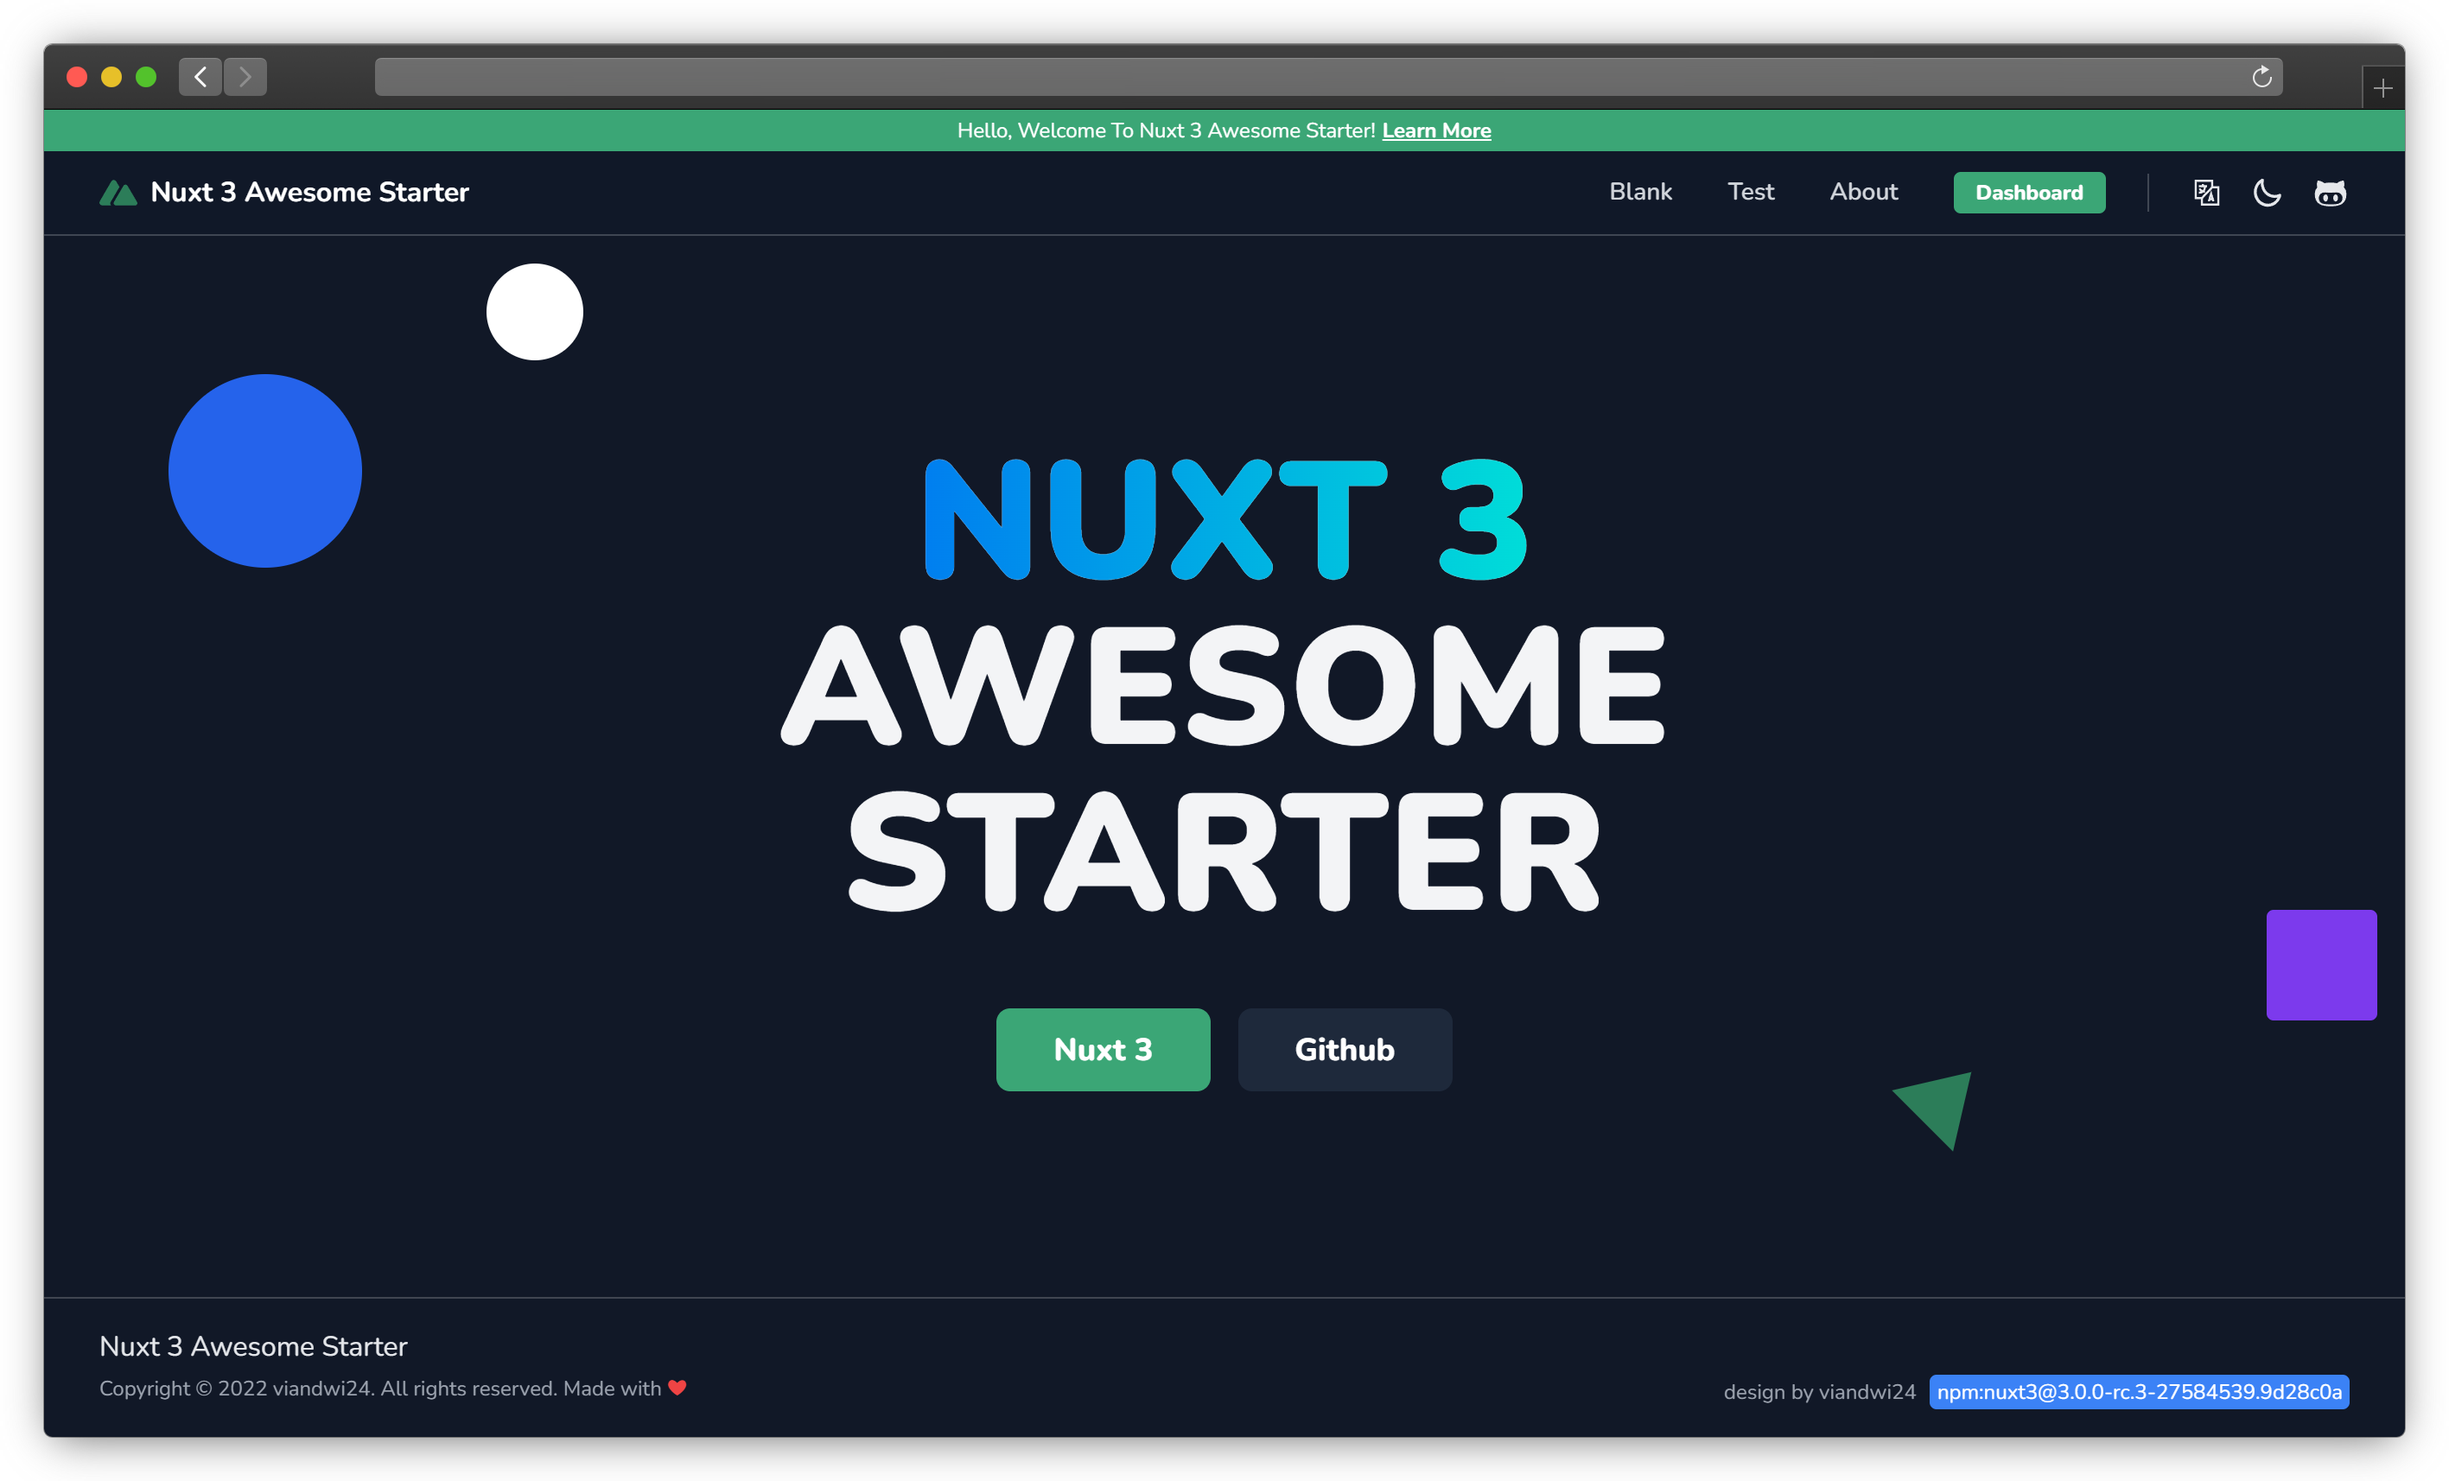
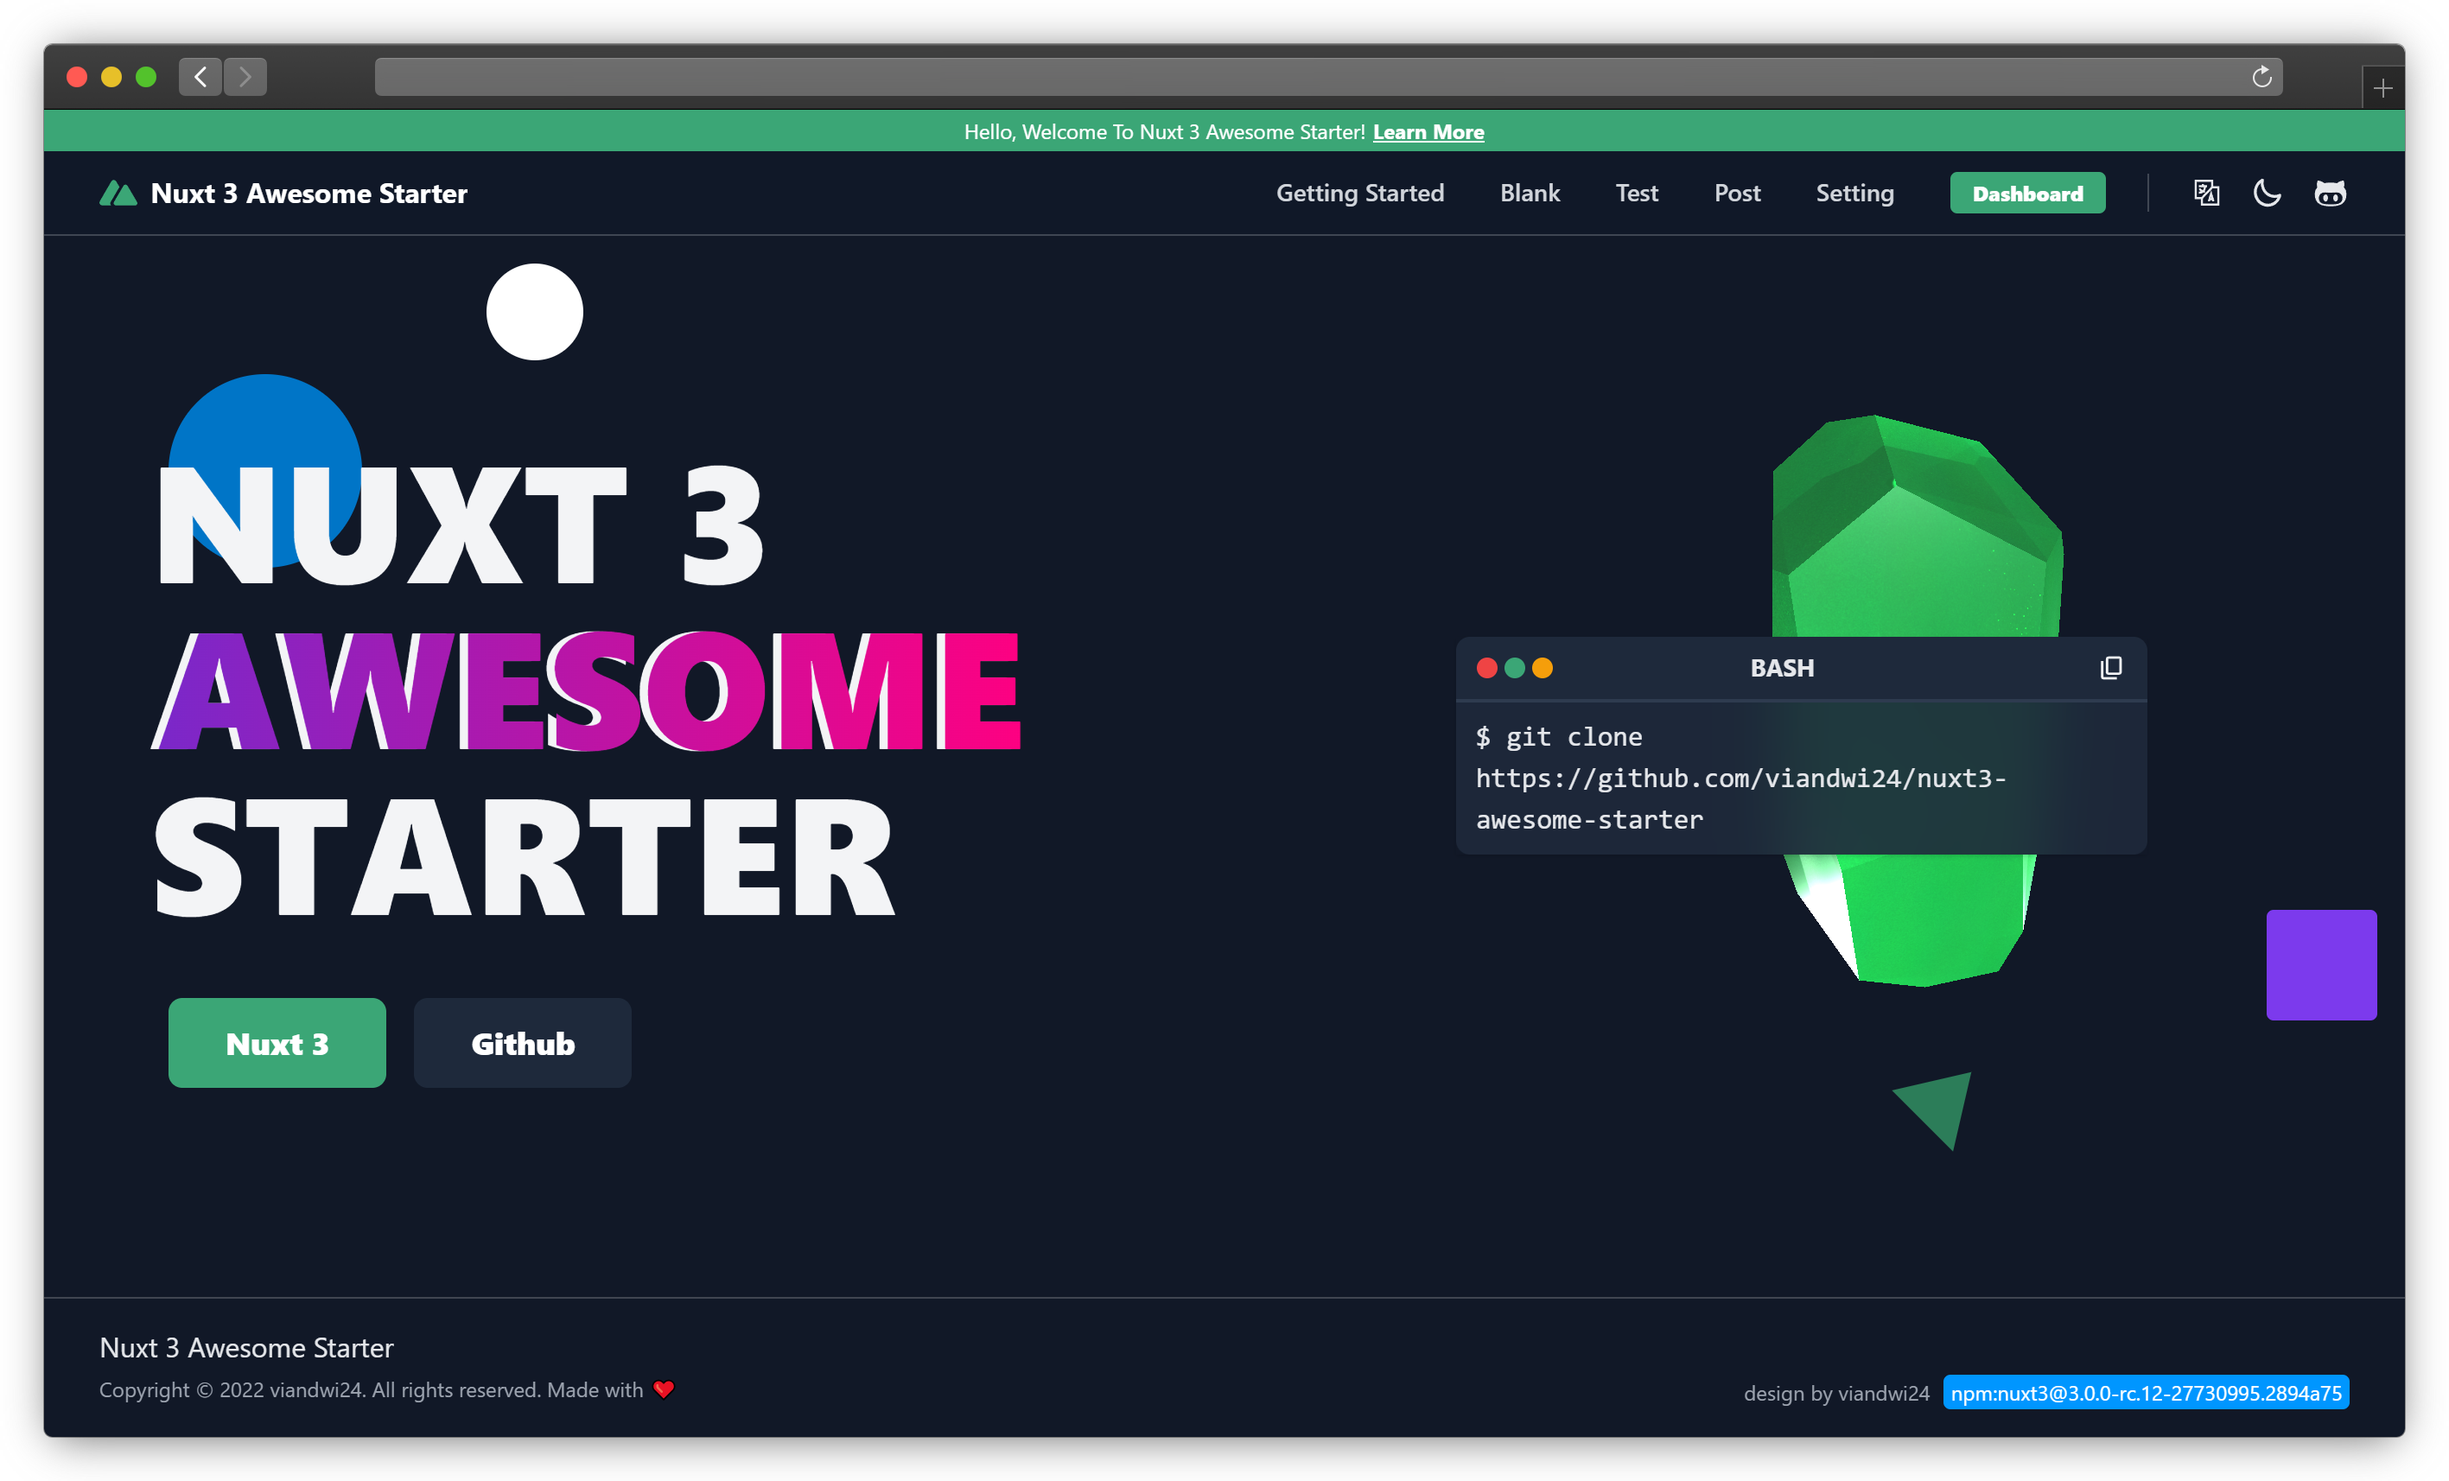
feat: restyle index, getting start page & tabs

diff --git a/components.d.ts b/components.d.ts
@@ -7,17 +7,27 @@ export {}
 
 declare module '@vue/runtime-core' {
   export interface GlobalComponents {
+    Icon: ic:baselineArrowRightAlt': typeof import('~icons/ic/baseline-arrow-right-alt')['default']
     'Icon:ic:baselineArrowRightAlt': typeof import('~icons/ic/baseline-arrow-right-alt')['default']
+    IconBi: exclamationCircleFill': typeof import('~icons/bi/exclamation-circle-fill')['default']
     'IconBi:exclamationCircleFill': typeof import('~icons/bi/exclamation-circle-fill')['default']
+    IconClarity: timesLine': typeof import('~icons/clarity/times-line')['default']
     'IconClarity:timesCircleSolid': typeof import('~icons/clarity/times-circle-solid')['default']
     'IconClarity:timesLine': typeof import('~icons/clarity/times-line')['default']
+    IconFaSolid: ellipsisV': typeof import('~icons/fa-solid/ellipsis-v')['default']
     'IconFaSolid:ellipsisV': typeof import('~icons/fa-solid/ellipsis-v')['default']
+    IconIc: baselineContentCopy': typeof import('~icons/ic/baseline-content-copy')['default']
     'IconIc:baselineContentCopy': typeof import('~icons/ic/baseline-content-copy')['default']
+    IconLa: language': typeof import('~icons/la/language')['default']
     'IconLa:language': typeof import('~icons/la/language')['default']
+    IconMaterialSymbols: contentCopyOutline': typeof import('~icons/material-symbols/content-copy-outline')['default']
     'IconMaterialSymbols:contentCopyOutline': typeof import('~icons/material-symbols/content-copy-outline')['default']
+    IconMdi: githubFace': typeof import('~icons/mdi/github-face')['default']
     'IconMdi:checkCircle': typeof import('~icons/mdi/check-circle')['default']
     'IconMdi:githubFace': typeof import('~icons/mdi/github-face')['default']
+    IconSimpleIcons: nuxtdotjs': typeof import('~icons/simple-icons/nuxtdotjs')['default']
     'IconSimpleIcons:nuxtdotjs': typeof import('~icons/simple-icons/nuxtdotjs')['default']
+    IconUil: times': typeof import('~icons/uil/times')['default']
     'IconUil:angleDown': typeof import('~icons/uil/angle-down')['default']
     'IconUil:apps': typeof import('~icons/uil/apps')['default']
     'IconUil:bars': typeof import('~icons/uil/bars')['default']

diff --git a/pages/index.vue b/pages/index.vue
@@ -63,7 +63,7 @@ const copyBash = () => {
     <PageBody class="flex-1 flex">
       <PageSection class="flex-1 flex items-center">
         <div class="flex-1 md:w-2/3 flex flex-col z-10">
-          <h1 class="text-center md:text-left">
+          <h1 class="text-center md:text-left ml-6 mt-4">
             <span
               v-for="(item, i) in leadingsText"
               :key="i"
@@ -78,7 +78,7 @@ const copyBash = () => {
             </span>
           </h1>
           <div
-            class="flex space-x-4 ml-4 mt-10 justify-center md:justify-start"
+            class="flex space-x-4 ml-10 mt-10 justify-center md:justify-start"
           >
             <Button
               size="lg"

diff --git a/pages/post/[slut].vue b/pages/post/[slut].vue
@@ -6,23 +6,6 @@ definePageMeta({
 
 <template>
   <PageWrapper class="flex flex-col">
-    <ContentDoc>
-      <template #default="{ doc }">
-        <PageHeader>
-          <PageTitle :text="doc.title" />
-        </PageHeader>
-        <PageBody>
-          <PageSection>
-            <ContentRenderer :value="doc" />
-          </PageSection>
-        </PageBody>
-      </template>
-      <template #empty>
-        <h1>Post in empty</h1>
-      </template>
-      <template #not-found>
-        <Error :code="404" wrap />
-      </template>
-    </ContentDoc>
+    <PageContentDoc />
   </PageWrapper>
 </template>

diff --git a/components/Page/Navbar.vue b/components/Page/Navbar.vue
@@ -11,7 +11,11 @@ export interface IMenuItem {
 const { t } = useLang()
 const app = useState<IApp>('app')
 const menus = computed((): IMenuItem[] => [
-  { type: 'link', text: t('pages.about.nav'), route: { name: 'about' } },
+  {
+    type: 'link',
+    text: t('pages.getting-started.nav'),
+    route: { name: 'getting-started' },
+  },
   { type: 'link', text: t('pages.blank.nav'), route: { name: 'blank' } },
   { type: 'link', text: t('pages.test.nav'), route: { name: 'test' } },
   { type: 'link', text: t('pages.post.nav'), route: { name: 'post' } },

diff --git a/components/Page/Content/Renderer.vue b/components/Page/Content/Renderer.vue
@@ -1,0 +1,25 @@
+<script setup>
+const props = defineProps({
+  path: {
+    type: String,
+    required: true,
+  },
+})
+
+const { data } = await useAsyncData(props.path, () =>
+  queryContent(props.path).findOne()
+)
+</script>
+
+<template>
+  <PageWrapper>
+    <PageHeader>
+      <PageTitle :text="$t('pages.about.title')" class="capitalize" />
+    </PageHeader>
+    <PageBody>
+      <PageSection>
+        <ContentRenderer :value="data" />
+      </PageSection>
+    </PageBody>
+  </PageWrapper>
+</template>

diff --git a/components/Page/Content/Doc.vue b/components/Page/Content/Doc.vue
@@ -1,0 +1,20 @@
+<template>
+  <ContentDoc>
+    <template #default="{ doc }">
+      <PageHeader>
+        <PageTitle :text="doc.title" />
+      </PageHeader>
+      <PageBody>
+        <PageSection>
+          <ContentRenderer :value="doc" />
+        </PageSection>
+      </PageBody>
+    </template>
+    <template #empty>
+      <h1>Post in empty</h1>
+    </template>
+    <template #not-found>
+      <Error :code="404" wrap />
+    </template>
+  </ContentDoc>
+</template>

diff --git a/pages/getting-started.vue b/pages/getting-started.vue
@@ -1,0 +1,24 @@
+<script lang="ts" setup>
+import { capitalize } from '~/utils/str'
+
+// composable
+const { t } = useLang()
+
+// compiler macro
+definePageMeta({
+  layout: 'page',
+})
+useHead(() => ({
+  title: capitalize(t('pages.getting-started.title')),
+  meta: [
+    {
+      name: 'description',
+      content: t('pages.getting-started.description'),
+    },
+  ],
+}))
+</script>
+
+<template>
+  <PageContentRenderer path="/page/getting-started" />
+</template>

diff --git a/pages/post/index.vue b/pages/post/index.vue
@@ -25,7 +25,7 @@ useHead(() => ({
       <PageTitle :text="$t('pages.post.title')" class="capitalize" />
     </PageHeader>
     <PageBody>
-      <ContentList v-slot="{ list }">
+      <ContentList v-slot="{ list }" path="/post">
         <PageSection v-for="article in list" :key="article._path">
           <div
             class="block hover:no-underline p-6 flex space-x-6 rounded border border-gray-900/10 dark:border-gray-50/[0.2]"

diff --git a/components/global/Tabs.vue b/components/global/Tabs.vue
@@ -30,10 +30,15 @@ onBeforeMount(() => {
 })
 onMounted(() => {
   ;(async () => {
-    while (typeof tabHeaderIndicator.value === 'undefined') {
+    while (
+      typeof tabHeaderIndicator.value === 'undefined' ||
+      typeof tabs.value === 'undefined'
+    ) {
       await new Promise((resolve) => setTimeout(resolve, 10))
     }
-    updateIndicator()
+    setTimeout(() => {
+      updateIndicator()
+    }, 350)
   })()
 })
 

diff --git a/components/global/Tab.vue b/components/global/Tab.vue
@@ -13,7 +13,7 @@ const activeTab = inject<string>('activeTab')
 </script>
 
 <template>
-  <div v-show="activeTab === name">
-    <slot></slot>
+  <div v-show="activeTab === name" class="relative overflow-auto px-6 py-2">
+    <slot />
   </div>
 </template>

diff --git a/windi.config.ts b/windi.config.ts
@@ -50,6 +50,7 @@ export default defineConfig({
     include: [
       './components/**/*.{vue,js}',
       './composables/**/*.{js,ts}',
+      './content/**/*.md',
       './layouts/**/*.vue',
       './pages/**/*.vue',
       './plugins/**/*.{js,ts}',

diff --git a/README.md b/README.md
@@ -3,11 +3,12 @@ a Nuxt 3 starter template or boilerplate with a lot of useful features. and inte
 
 _This template was built to make it easier to create web projects using Nuxt 3. It was originally designed for coursework and portfolio templates. (hence there will be lots of ui components for easy reuse)_
 
-> **WARNING** \
-> Nuxt 3 now in RC version (Release Candidate) [But this template using Nuxt 3.x edge* (latest version)]  
-> Not recommended for production use.  
-> * Breaking changes tracker can be found [here](https://github.com/nuxt/framework/discussions/2883)  
-> * Roadmap can be found [here](https://v3.nuxtjs.org/community/roadmap)
+> **WARNING** 
+> - This Project using "pnpm" as package manager. (not npm or yarn)!!! 
+> - Nuxt 3 now in RC version (Release Candidate) [But this template using Nuxt 3.x edge* (latest version)]  
+> - Not recommended for production use. 
+> - Breaking changes tracker can be found [here](https://github.com/nuxt/framework/discussions/2883)  
+> - Roadmap can be found [here](https://v3.nuxtjs.org/community/roadmap)
 
 ## Features
 - [x] 💨 [Tailwind CSS v3](https://tailwindcss.com/) with [Windicss](https://windicss.org/)
@@ -23,13 +24,13 @@ _This template was built to make it easier to create web projects using Nuxt 3. 
 - [x] Eslint & Prettier
 - [x] Husky & Commitlint
 - [x] Custom Workspace Snippets
-
-## To Do
-- [ ] Adding simple Unit Test
-- [ ] Adding HTTP Client
-- [ ] Configurable Theme
+- [x] Built-in Unit Test
+- [x] Configurable Theme
   - [x] Primary Colors
   - [x] Font
+
+## To Do
+- [ ] Adding HTTP Client
 
 ## Preview
 <table align="center">
@@ -84,13 +85,14 @@ _This template was built to make it easier to create web projects using Nuxt 3. 
   - [License](#license)
 
 ## Quick Start
+For detail information, go here [Getting Started](https://nuxt3-awesome-starter.vercel.app/getting-started)
 ### Start with this template
-* This project using `yarn` as package manager.
+* This project using `pnpm` as package manager.
 * Clone this project to your computer `git clone https://github.com/viandwi24/nuxt3-awesome-starter`
-* Install dependencies `yarn install`
-* Run `yarn dev` to start development server and open `http://localhost:3000` in your browser
+* Install dependencies `pnpm install`
+* Run `pnpm dev` to start development server and open `http://localhost:3000` in your browser
 ### Deploy as Static Site
-* Run `yarn generate` to build the project
+* Run `pnpm generate` to build the project
 * Serve `dist/` folder
 Checkout the [deployment documentation](https://v3.nuxtjs.org/docs/deployment).
 
@@ -199,7 +201,7 @@ So, you can just update "locales/en.yml" and run this tools, it will automatical
 
 You can just run :
 ```
-yarn generate:locales
+pnpm generate:locales
 
 # or :
 
@@ -245,10 +247,10 @@ Example :
 ```
 ### Precommit and Postmerge
 This project using husky and commitlint for precommit and postmerge.
-when you commit, it will check your commit message and running "yarn lint-staged" to check your staged files.
+when you commit, it will check your commit message and running "pnpm lint-staged" to check your staged files.
 configuration in : `/path/to/.husky/pre-commit` and `/path/to/commitlint.config.js`
 
-And when Postmerge, it will run "yarn" to automatically install new dependencies.
+And when Postmerge, it will run "pnpm" to automatically install new dependencies.
 configuration in `/path/to/.husky/post-merge`
 
 ## License
